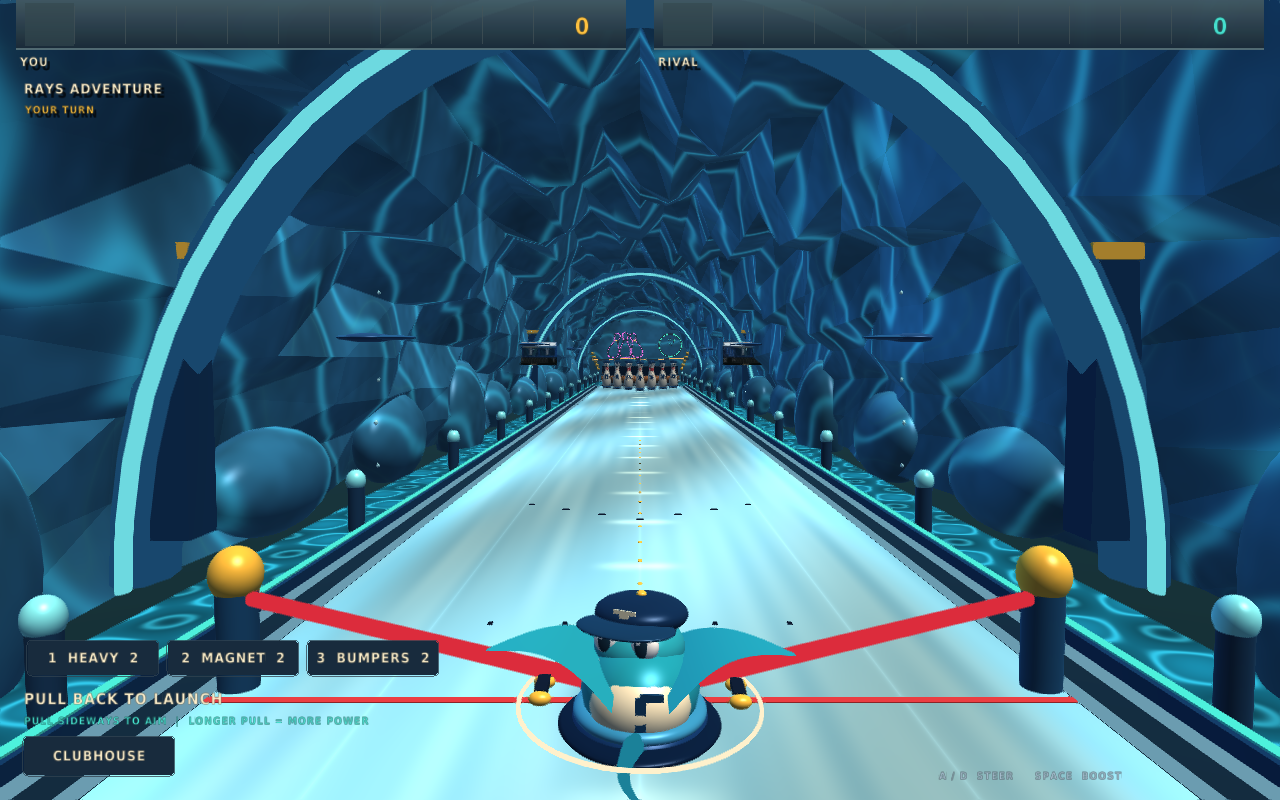
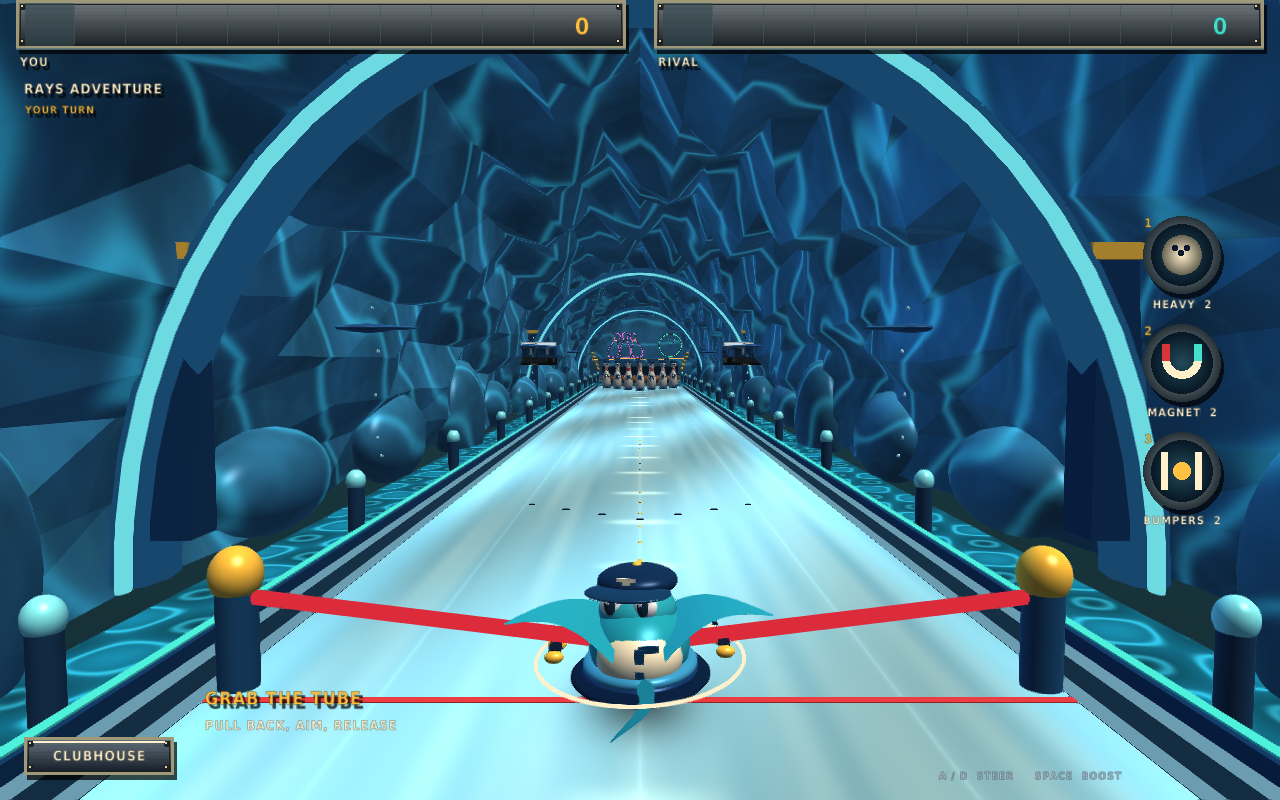
Restore reachable arcade controls, reference framing and Windows installer

diff --git a/native/src/main.cpp b/native/src/main.cpp
@@ -25,7 +25,7 @@ std::string marks(const std::vector<int> &r, int f) {
 }
 void scoreCard(const Game &g, float x, Color c, const char *who) {
     // One shallow score strip per player, like a classic arcade bowling display.
-    DrawRectangleGradientV(int(x), 0, 610, 49, {68, 91, 102, 245}, {26, 44, 57, 245});
+    panel({x, 0, 610, 49}, {42, 54, 62, 255});
     DrawLineEx({x, 49}, {x + 610, 49}, 2, {110, 141, 148, 210});
     auto scores = g.scores();
     for (int i = 0; i < 10; ++i) {
@@ -205,7 +205,7 @@ int main(int argc, char **argv) {
                     shot.curve = std::clamp(
                         shot.curve + ((IsKeyDown(KEY_E) ? 1.f : 0) - (IsKeyDown(KEY_Q) ? 1.f : 0)) * dt,
                         -1.f, 1.f);
-                    bool alleyPointer = GetMouseY() > 190 && GetMouseY() < 630;
+                    bool alleyPointer = coursePointer(GetMouseX(), GetMouseY());
                     if (!match.mascot && !charge && alleyPointer &&
                         (GetMouseDelta().x != 0 || GetMouseDelta().y != 0))
                         shot.position = alleyPosition(GetMouseX());
@@ -223,8 +223,10 @@ int main(int argc, char **argv) {
                                                              GetMouseY() - dragStart.y)
                                                 : alleyDrag(shot, GetMouseX() - dragStart.x,
                                                             dragStart.y - GetMouseY());
+                            if (!match.mascot && std::abs(dragStart.y - GetMouseY()) < 8)
+                                shot.power = heldPower(chargeTime);
                         } else
-                            shot.power = .15f + .85f * (.5f - .5f * std::cos(chargeTime * 4));
+                            shot.power = heldPower(chargeTime);
                     }
                     if (((!mouseCharge && IsKeyReleased(KEY_SPACE)) ||
                          (mouseCharge && IsMouseButtonReleased(MOUSE_BUTTON_LEFT))) &&
@@ -305,6 +307,7 @@ int main(int argc, char **argv) {
         art.arena = arena;
         art.skin = skin;
         art.mascot = match.mascot;
+        art.slingPower = charge ? shot.power : 0;
         art.updateScoreboard(match);
         const auto cameraStyle = match.mascot ? geometry::mascotCamera : geometry::stadiumCamera;
         camera.fovy = cameraStyle.fov;
@@ -462,12 +465,7 @@ int main(int argc, char **argv) {
                 }
             bool enabled = state == 0 && match.player == 0 && !paused;
             if ((state != 1 && state != 2) && state == 3) {
-                panel({24, 691, 1232, 66}, {10, 23, 37, 238});
-                slider("POSITION", 39, 702, 160, shot.position, geometry::launchMin, geometry::launchMax,
-                       enabled);
-                slider("AIM", 223, 702, 160, shot.aim, -1, 1, enabled);
-                slider("POWER", 407, 702, 160, shot.power, .1f, 1, enabled && !charge);
-                slider("SPIN", 591, 702, 160, shot.curve, -1, 1, enabled);
+                panel({770, 691, 486, 66}, {10, 23, 37, 238});
                 if (button({790, 706, 219, 48}, state == 3 ? "REMATCH" : "BOWL", true,
                            enabled || state == 3)) {
                     if (state == 3)
@@ -482,11 +480,10 @@ int main(int argc, char **argv) {
                 }
             }
             if (match.mascot && state == 0 && human) {
-                text(charge ? "RELEASE THE SLING!" : "PULL BACK TO LAUNCH", 24, 690, 18, cream);
-                text("PULL SIDEWAYS TO AIM  |  LONGER PULL = MORE POWER", 24, 715, 12, aqua);
+                title(charge ? "LET IT FLY!" : "GRAB THE TUBE", 205, 688, 21, gold);
+                text("PULL BACK, AIM, RELEASE", 205, 718, 15, cream);
                 if (charge) {
-                    panel({960, 604, 280, 20}, ink);
-                    DrawRectangleRounded({964, 608, 272 * shot.power, 12}, .5f, 8, aqua);
+                    arcadeMeter(1045, 500, shot.power, aqua);
                 }
                 if (button({24, 737, 150, 38}, "CLUBHOUSE")) {
                     screen = 0;
@@ -500,15 +497,11 @@ int main(int argc, char **argv) {
                     DrawLineEx({x - 28, 535}, {x + 28, 535}, 5, aqua);
                     DrawTriangle({x - 39, 535}, {x - 23, 548}, {x - 23, 522}, aqua);
                     DrawTriangle({x + 39, 535}, {x + 23, 522}, {x + 23, 548}, aqua);
-                    center("MOVE TO POSITION", 640, 705, 18, cream);
-                    center("HOLD MOUSE / DRAG UP FOR POWER", 640, 735, 14, aqua);
+                    title("MOVE TO LINE UP", 205, 688, 20, gold);
+                    text("HOLD TO POWER UP / RELEASE TO BOWL", 205, 718, 14, cream);
                 } else {
-                    panel({x - 21, 438, 42, 149}, ink);
-                    float fill = std::clamp((shot.power - .15f) / .85f, 0.f, 1.f) * 129;
-                    DrawRectangleRounded({x - 13, 577 - fill, 26, fill}, .2f, 8, aqua);
-                    for (int i = 1; i < 8; ++i)
-                        DrawLine(x - 13, 577 - i * 16, x + 13, 577 - i * 16, ink);
-                    center("DRAG TO AIM / RELEASE TO BOWL", 640, 705, 20, cream);
+                    arcadeMeter(x, 510, shot.power, gold);
+                    title("RELEASE TO BOWL!", 205, 688, 22, gold);
                     center(std::to_string(int(shot.power * 100)) + "%", x, 596, 17, aqua);
                 }
                 if (button({24, 737, 150, 38}, "CLUBHOUSE")) {
@@ -517,13 +510,10 @@ int main(int argc, char **argv) {
                 }
             }
             if (state == 0) {
-                const char *names[] = {"1  HEAVY", "2  MAGNET", "3  BUMPERS"};
-                for (int i = 0; i < 3; ++i) {
-                    std::string label = std::string(names[i]) + "  " + std::to_string(match.stock[0][i]);
-                    if (button({28 + i * 140.f, 641, 130, 34}, label, match.equipped == Power(i + 1),
-                               enabled && match.stock[0][i] > 0))
+                for (int i = 0; i < 3; ++i)
+                    if (powerButton(i, match.stock[0][i], match.equipped == Power(i + 1),
+                                    enabled && match.stock[0][i] > 0))
                         match.equip(Power(i + 1));
-                }
             }
             center(match.mascot
                        ? "A / D  STEER     SPACE  BOOST"

diff --git a/native/src/ui.hpp b/native/src/ui.hpp
@@ -20,9 +20,28 @@ inline void title(const std::string &s, float x, float y, float size, Color c) {
     text(s, x, y, size, c);
 }
 inline void panel(Rectangle r, Color c) {
-    DrawRectangleRounded({r.x, r.y + 3, r.width, r.height}, .16f, 12, {0, 0, 0, 60});
-    DrawRectangleRounded(r, .16f, 12, c);
-    DrawRectangleRoundedLinesEx(r, .16f, 12, 1, {90, 133, 157, 100});
+    DrawRectangleRec({r.x + 3, r.y + 5, r.width, r.height}, {0, 0, 0, 160});
+    DrawRectangleGradientV(r.x, r.y, r.width, r.height, ColorBrightness(c, .35f),
+                           ColorBrightness(c, -.45f));
+    DrawRectangleLinesEx(r, 3, {160, 153, 119, 255});
+    DrawRectangleLinesEx({r.x + 4, r.y + 4, r.width - 8, r.height - 8}, 1, {29, 32, 30, 255});
+    // Brushed metal grain and inset rivets, like a physical arcade cabinet.
+    for (int y = 8; y < r.height - 5; y += 7)
+        DrawLine(r.x + 6, r.y + y, r.x + r.width - 6, r.y + y, {0, 0, 0, 8});
+    for (float x : {r.x + 7, r.x + r.width - 7})
+        for (float y : {r.y + 7, r.y + r.height - 7}) {
+            DrawCircle(x, y, 3, {32, 34, 33, 255});
+            DrawCircle(x - 1, y - 1, 1, {225, 214, 162, 255});
+        }
+}
+inline void arcadeMeter(float x, float y, float power, Color c) {
+    panel({x - 24, y - 140, 48, 174}, {57, 58, 48, 255});
+    DrawRectangle(x - 14, y - 128, 28, 145, {12, 17, 19, 255});
+    for (int i = 0; i < 12; ++i) {
+        Color light = (i + 1) / 12.f <= power ? (i > 9 ? red : c) : Color{37, 43, 40, 255};
+        DrawRectangleGradientV(x - 12, y + 3 - i * 11, 24, 9, ColorBrightness(light, .3f), light);
+    }
+    DrawTriangle({x, y - 153}, {x - 16, y - 136}, {x + 16, y - 136}, c);
 }
 inline bool button(Rectangle r, const std::string &s, bool primary = false, bool enabled = true) {
     enabled = enabled && !uiBlocked;
@@ -32,8 +51,8 @@ inline bool button(Rectangle r, const std::string &s, bool primary = false, bool
         base = primary ? Color{245, 75, 65, 255} : Color{49, 80, 110, 255};
     if (!enabled)
         base = {55, 62, 70, 255};
-    DrawRectangleRounded(r, .22f, 12, base);
-    DrawRectangleRoundedLinesEx(r, .22f, 12, 1, primary ? aqua : Color{67, 91, 109, 180});
+    panel(r, base);
+    DrawLineEx({r.x + 9, r.y + 5}, {r.x + r.width - 9, r.y + 5}, 2, primary ? gold : cream);
     center(s, r.x + r.width / 2, r.y + (r.height - 16) / 2, 16,
            enabled ? cream : Color{140, 153, 164, 255});
     if (hover)
@@ -53,4 +72,31 @@ inline void slider(const char *label, float x, float y, float width, float &valu
     if (enabled && IsMouseButtonDown(MOUSE_BUTTON_LEFT) &&
         CheckCollisionPointRec(GetMousePosition(), {x - 10, y + 16, width + 20, 34}))
         value = lo + (hi - lo) * std::clamp((GetMouseX() - x) / width, 0.f, 1.f);
+}
+
+inline bool powerButton(int index, int stock, bool selected, bool enabled) {
+    float x = 1182, y = 255 + index * 108.f;
+    bool hover = enabled && !uiBlocked && CheckCollisionPointCircle(GetMousePosition(), {x, y}, 40);
+    DrawCircle(x + 3, y + 5, 39, {0, 0, 0, 150});
+    DrawCircleGradient(x, y, 39, selected ? gold : Color{167, 179, 180, 255}, {37, 48, 55, 255});
+    DrawCircleGradient(x, y, 31, hover ? Color{80, 161, 176, 255} : Color{34, 74, 89, 255},
+                       {8, 23, 36, 255});
+    Color c = enabled ? cream : GRAY;
+    if (index == 0) {
+        DrawCircleGradient(x, y, 20, c, {104, 99, 82, 255});
+        for (int i = 0; i < 3; ++i)
+            DrawCircle(x - 7 + i * 6, y - 7 + (i % 2) * 5, 3, ink);
+    } else if (index == 1) {
+        DrawRing({x, y - 4}, 12, 20, 0, 180, 24, c);
+        DrawRectangle(x - 20, y - 19, 8, 17, red);
+        DrawRectangle(x + 12, y - 19, 8, 17, aqua);
+    } else {
+        DrawLineEx({x - 17, y - 19}, {x - 17, y + 19}, 7, c);
+        DrawLineEx({x + 17, y - 19}, {x + 17, y + 19}, 7, c);
+        DrawCircle(x, y, 9, gold);
+    }
+    const char *names[] = {"HEAVY", "MAGNET", "BUMPERS"};
+    center(std::string(names[index]) + "  " + std::to_string(stock), x, y + 43, 13, c);
+    center(std::to_string(index + 1), x - 34, y - 39, 14, gold);
+    return hover && IsMouseButtonReleased(MOUSE_BUTTON_LEFT);
 }

diff --git a/native/tests/rules.cpp b/native/tests/rules.cpp
@@ -48,8 +48,8 @@ int main() {
           "fixed ball and rack proportion baseline");
     check(geometry::stadiumCamera.fov == 55 && geometry::mascotCamera.fov == 53,
           "art updates preserve camera framing presets");
-    check(geometry::stadiumCamera.height == 6.5f && geometry::stadiumCamera.back == -12.f &&
-              geometry::stadiumCamera.targetHeight == .6f && geometry::mascotCamera.height == 4.f &&
+    check(geometry::stadiumCamera.height == 3.8f && geometry::stadiumCamera.back == -4.5f &&
+              geometry::stadiumCamera.targetHeight == 1.1f && geometry::mascotCamera.height == 4.f &&
               geometry::mascotCamera.back == -7.f && geometry::mascotCamera.targetHeight == -1.f,
           "full camera baseline stays fixed across stadium artwork updates");
     // Independent perspective projection: guard visible distance, not just world length.
@@ -62,7 +62,7 @@ int main() {
         return 400.f - 400.f * up / (depth * std::tan(c.fov * 3.14159265f / 360.f));
     };
     float visibleRun = projectedY(geometry::foulLine) - projectedY(geometry::headPin);
-    check(visibleRun > 285 && visibleRun < 305, "launch view preserves lane run on an 800px display");
+    check(visibleRun > 390 && visibleRun < 440, "launch view preserves lane run on an 800px display");
     check(geometry::renderX(geometry::launchMin) > geometry::renderX(geometry::launchMax),
           "mouse right maps to camera right looking down positive Z");
     Simulation dimensions;

diff --git a/native/src/art.hpp b/native/src/art.hpp
@@ -14,6 +14,7 @@ struct Art {
     std::array<Texture2D, 10> parkLogos{}, teamLogos{};
     std::string scoreboardKey;
     int arena = 0, skin = 0;
+    float slingPower=0;
     bool mascot = false, inSceneryTransform = false;
     // Continuous shaded tube and an irregular, inward-facing stadium grotto.
     Mesh tubeMesh() {
@@ -951,7 +952,7 @@ void main(){uv=vertexTexCoord;normal=normalize(mat3(matNormal)*vertexNormal);wor
         if (ballPos.z < geo::surfaceEnd) {
             if (mascot)
                 rider({ballPos.x + (aim ? shot.aim * 1.6f : 0), .57f,
-                       ballPos.z - (aim ? .3f + shot.power * 1.4f : 0)},
+                       ballPos.z - (aim ? slingPower * 2.7f : 0)},
                       time, aim, sim.active ? sim.ball.vx : 0);
             else
                 bowlingBall({ballPos.x, sim.gutter ? .28f : (sim.hasBall ? sim.ball.r : geo::ballRadius),
@@ -960,7 +961,7 @@ void main(){uv=vertexTexCoord;normal=normalize(mat3(matNormal)*vertexNormal);wor
                             sim.hasBall ? sim.ball.r : geo::ballRadius);
         }
         if (aim && mascot) {
-            float pull = .3f + shot.power * 1.4f;
+            float pull = slingPower * 2.7f;
             Vector3 center{ballPos.x + shot.aim * 1.6f, .70f, ballPos.z - pull};
             for (int side : {-1, 1}) {
                 cyl({side * 4.8f, .04f, 2.4f}, .24f, 1.3f, {24, 69, 110, 255});

diff --git a/native/src/alley_controls.hpp b/native/src/alley_controls.hpp
@@ -11,6 +11,13 @@ inline Shot alleyDrag(Shot shot, float dx, float upward) {
     shot.aim = std::clamp(dx / 240.f, -1.f, 1.f);
     return shot;
 }
+// Shared hit region excludes the top scores and side HUD, but includes the actual tube.
+inline bool coursePointer(float x, float y) {
+    return x > 185 && x < 1090 && y > 120 && y < 790;
+}
+inline float heldPower(float seconds) {
+    return .15f + .85f * (.5f - .5f * std::cos(seconds * 4));
+}
 // Pull the tube backward and to either side; release sends it opposite the pull.
 inline Shot mascotPull(Shot shot, float dx, float downward) {
     shot.power = std::clamp(.15f + downward / 160.f, .15f, 1.f);

diff --git a/native/tests/campaign.cpp b/native/tests/campaign.cpp
@@ -105,6 +105,9 @@ int main() {
         for (auto &g : match.games)
             require(*g.scores()[9] >= 0 && *g.scores()[9] <= 300, "legal match score");
     }
+    require(coursePointer(640, 720), "tube itself accepts sling press");
+    require(!coursePointer(1160, 260) && !coursePointer(80, 750), "HUD buttons cannot launch shots");
+    require(heldPower(.6f) > heldPower(.1f), "stationary stadium hold builds power");
     std::cout << "Campaign tests passed: 64 designs, 10 stadiums, save/restore, powers, steering, "
                  "boost, AI matches\n";
 }

diff --git a/native/src/lane_geometry.hpp b/native/src/lane_geometry.hpp
@@ -28,7 +28,7 @@ inline constexpr float rackZ(int row) {
 struct CameraPreset {
     float height, back, targetHeight, fov;
 };
-inline constexpr CameraPreset stadiumCamera{6.5f, -12.f, .6f, 55.f};
+inline constexpr CameraPreset stadiumCamera{3.8f, -4.5f, 1.1f, 55.f};
 inline constexpr CameraPreset mascotCamera{4.f, -7.f, -1.f, 53.f};
 static_assert(rackX(3, 0) - pinRadius > 0 && rackX(3, 3) + pinRadius < width);
 static_assert(rackZ(3) + pinRadius < deckEnd && deckEnd < surfaceEnd);

diff --git a/native/README.md b/native/README.md
@@ -15,7 +15,7 @@ C++17 + raylib 5.5 desktop prototype. The native work lost in the cloud refresh 
 
 ## Controls
 
-Traditional alley: move the mouse over the lane to position the ball, hold left mouse and drag upward for power / sideways for aim, then release to bowl. The position locks during a drag. A/D position; arrows aim; Q/E curve; sliders adjust all shot values. Hold Space to time power and release to bowl, or press LET IT RIP. In Mascot Ride, arrows/A/D steer after launch and Space boosts once. Keys 1/2/3 select a power before launch. Escape pauses, M toggles sound, F11 toggles fullscreen. The clubhouse selects mode, stadium and ball. A rematch is available after scoring.
+Traditional alley: move the mouse over the lane to position the ball, hold left mouse to build power (or drag upward to set it directly) / sideways for aim, then release to bowl. The position locks during a drag. A/D position; arrows aim; Q/E curve; Hold Space to time power and release to bowl, or press LET IT RIP. In Mascot Ride, arrows/A/D steer after launch and Space boosts once. Keys 1/2/3 select a power before launch. Escape pauses, M toggles sound, F11 toggles fullscreen. The clubhouse selects mode, stadium and ball. A rematch is available after scoring.
 
 ## Graphics and proportions
 
@@ -75,3 +75,7 @@ Source, shader, font/license, procedural assets, tests, build instructions, art 
 ## Stadium scoreboards
 
 Blue title panels have been replaced with ballpark scoreboards. Wrigley uses painted green manual panels, white league grids, a clock, flags and lamps inspired by the supplied photograph. Fenway uses a green manual face; other parks and Rays Adventure use dark LED faces with amber numbers. Bowling frame scores and totals update with the match; the decorative baseball grids do not represent live MLB results.
+
+## Easy Windows installation
+
+Run Big-League-Bowling-Setup.exe, choose Install, then Play on the finish screen. The installer adds desktop and Start menu shortcuts and a Windows Installed Apps uninstaller. No admin rights required. Career saves survive uninstall. See installer/README.md for rebuilding. This build is unsigned and Windows execution remains unverified here.

diff --git a/native/docs/CONTROL_REFERENCE.md b/native/docs/CONTROL_REFERENCE.md
@@ -1,0 +1,9 @@
+# Control and scale reference review
+
+Reviewed the supplied Zombies Dropbox video (26.333s), its dense placement/power sequence, and the Polar Dropbox video (20.733s). Also inspected official screenshots and game description from https://store.steampowered.com/app/32160/ and its appdetails API. No exact world measurements or mouse events are exposed; mappings below are adaptations, not verified original source behavior.
+
+Zombies shows a low partly cropped ball, distant rack, horizontal placement arrows, an upright filling meter, then a following camera. Stadium mode now uses a lower, closer ready camera to reproduce that composition without another world-length change. Move mouse to position; hold to build power, drag upward to set it directly, sideways to aim, release to bowl. The visible meter shows either path. Keyboard fallback remains.
+
+Polar shows a pulled inflatable rider and sling followed by a trailing camera. Grab the tube or open course, pull down/back and sideways, release; A/D or arrows steer, Space boosts. The old Y<630 input gate excluded the actual tube around Y=700: fixed. The sling rests until grabbed and visibly stretches with pull. Buttons in the side HUD are excluded from the course hit area. Tests cover the tube hit and HUD exclusion.
+
+The previous flat panels are now beveled metal plaques with grain, rivets and segmented meters; this is still procedural artwork, not the original games' illustrated assets. Physics and original unlock/AI/power systems remain intact.

diff --git a/native/docs/VALIDATION.md b/native/docs/VALIDATION.md
@@ -1,3 +1,11 @@
+# Arcade controls and installer milestone
+
+- Linux scoring, geometry/projection, physics and campaign suites pass. Hit tests include clicking the tube below Y=630 and exclude side HUD; stationary hold power is covered.
+- Real X11 mouse input at (640,710) pulled the mascot sling; release reached the pin deck and knocked pins down. Stadium press/upward drag displayed 81% power. Launch and impact captures cover both modes.
+- Windows native cross-build and ZIP CRC pass; every packaged asset equals source. NSIS 3.11 installer compiles without warnings. Installer includes user-level shortcuts, launch-on-finish and uninstall registration; no Windows runtime install/uninstall/play verification is available.
+- Reviewed supplied video frames and official Steam screenshots (app32160). Matching is visual, not a claim of exact original game dimensions or input semantics. See CONTROL_REFERENCE.md.
+- Current screenshot: tropicana-stadium.png; input evidence: alley-power.png, mascot-pull.png and mascot-release.png. The held mascot image predates the final circular power-icon styling.
+
 # Stadium identity and camera follow-up
 
 - World lane remains 80×10; ball, pin, rack and simulation dimensions unchanged. Stadium ready camera deliberately raised and pulled back. Full camera constants and independent perspective projection now have regression checks (about 295 pixels foul-line-to-head-pin base at 1280×800).

diff --git a/native/PROPORTIONS.md b/native/PROPORTIONS.md
@@ -26,3 +26,7 @@ The existing rules suite checks the baseline length/width, body sizes, spacing, 
 ## Camera correction after stadium references
 
 World length remains 80, width 10, all body sizes unchanged. Stadium ready camera is intentionally raised from 3.8 to 6.5 and moved back from -8 to -12, targeting height 0.6 with unchanged 55-degree FOV. This exposes more lane floor and reduces the oversized foreground ball. Ready framing snaps to the preset instead of retaining a menu/previous-shot interpolation. Mascot and follow cameras are unchanged. Tests now lock every ready camera component and require 285–305 screen pixels between foul line and head-pin base at 1280×800.
+
+## Zombies footage framing correction
+
+The raised camera experiment above is superseded. Current stadium ready camera: height 3.8, back -4.5, target height 1.1, FOV 55. The ball now sits low at the bottom edge as in the supplied footage, with a longer visible run to the distant rack. Lane world geometry remains 80×10; exact original game units cannot be recovered from screenshots. Projected foul-line-to-head-pin screen distance is guarded at 390–440 pixels on an 800px-high display. Mascot camera unchanged.

diff --git a/HANDOFF.md b/HANDOFF.md
@@ -1,3 +1,5 @@
+Latest: native/installer/setup.nsi builds a per-user Windows installer with shortcuts and uninstaller. Read native/docs/CONTROL_REFERENCE.md for the restored reachable tube drag, timed/drag stadium power and corrected low Zombies-like camera. native/PROPORTIONS.md latest section supersedes earlier camera experiments.
+
 Latest stadium identity pass: actual sourced stadium wordmarks and MLB marks in native/assets/parks (provenance in SOURCES.md), layered video graphics and steel trusses. Tropicana has a wide screen, catwalk and orange landmark. Stadium ready camera intentionally reframed; world geometry remains 80×10. See native/PROPORTIONS.md for the projected-view regression guard. Existing ten-park roster unchanged; Citi, Comerica and Rate photos inform presentation only.
 
 Latest signage: stadium scoreboards replace blue title panels. Wrigley follows the supplied green manual-board reference, with a 3D clock, flags and lamps; bowling scores update live. See native/docs/wrigley-scoreboard.png.
